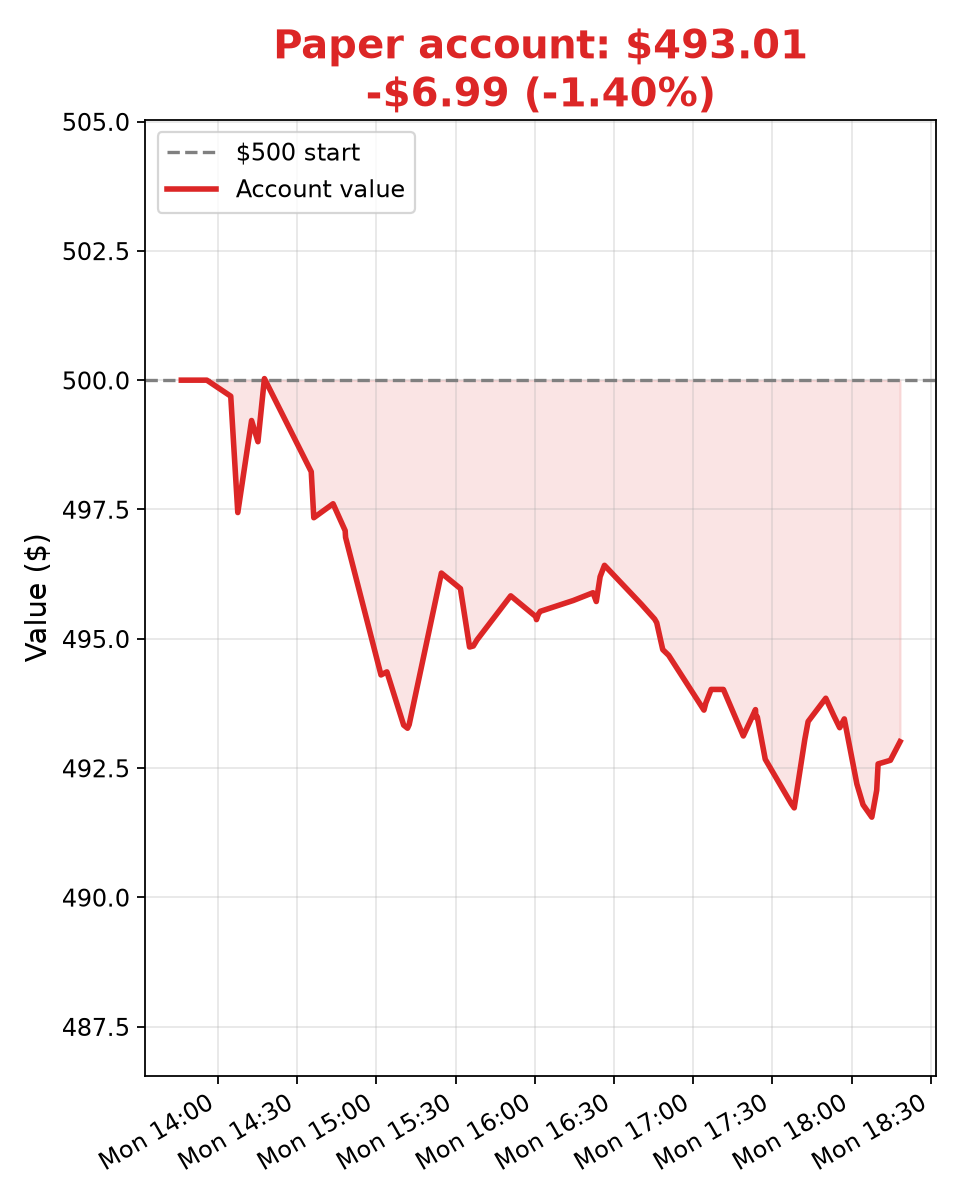
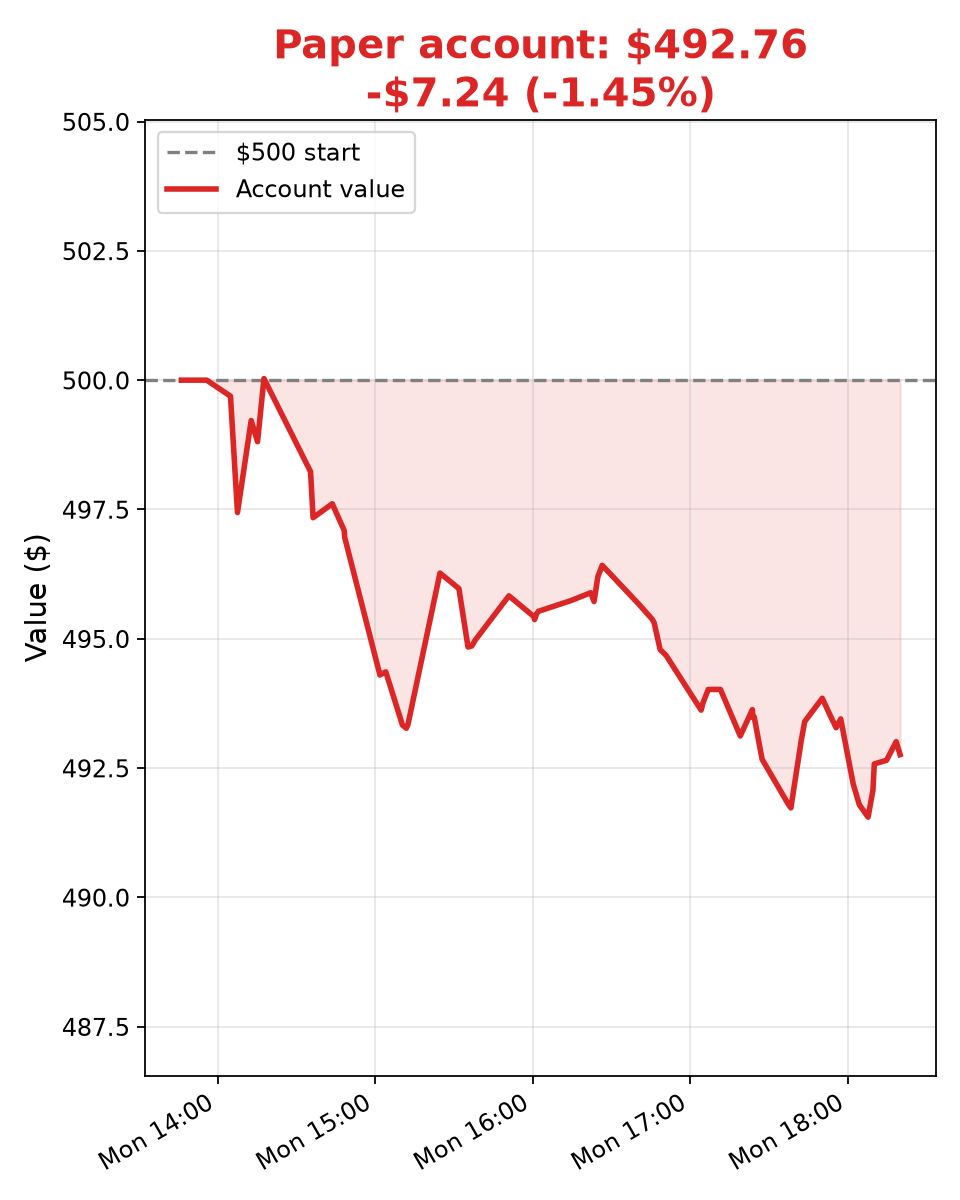
Update 2026-10-12T18:20:09Z

diff --git a/ledger.md b/ledger.md
@@ -97,3 +97,4 @@
 - 2026-10-12T18:10:02Z — total $492.58, cash $98.62 (Stock Bot mark, no trade; FRO 58.725, DHT 25.86, ASTS 52.471 marked; no stops/targets hit — ASTS tagged new LOD 52.47 at 18:04 and is back there, 0.07 above 52.40 stop; tankers bounced off 18:05 lows)
 - 2026-10-12T18:14:41Z — total $492.65, cash $196.95 (Jr stopped out ASTS @ 52.40; FRO 58.76, DHT 25.88 marked; no other stops/targets)
 - 2026-10-12T18:18:21Z — total $493.01, cash $196.95 (Bot1 mark, no trade; FRO 58.815, DHT 25.92 marked; no stops/targets hit — tankers firming off afternoon lows after ASTS stop-out)
+- 2026-10-12T18:19:50Z — total $492.76, cash $196.95 (Bot4 mark, no trade; FRO 58.75, DHT 25.905 marked; no stops/targets hit — tankers stalled under lunch coil, slipped off 18:16 pop)
